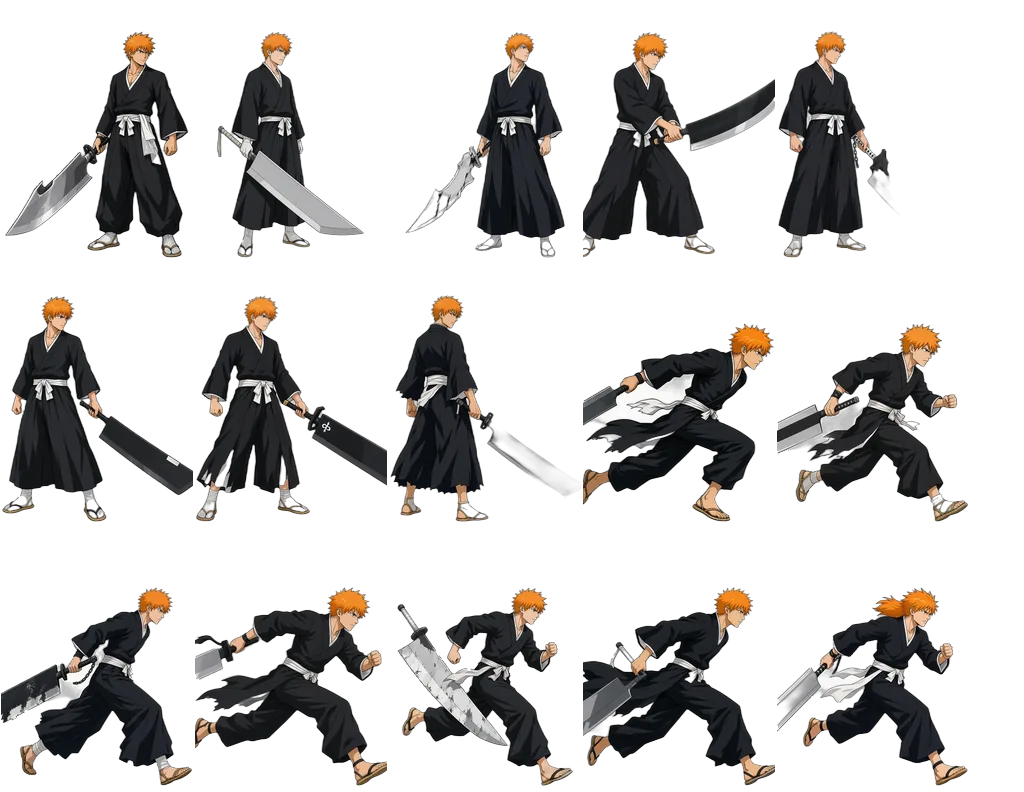
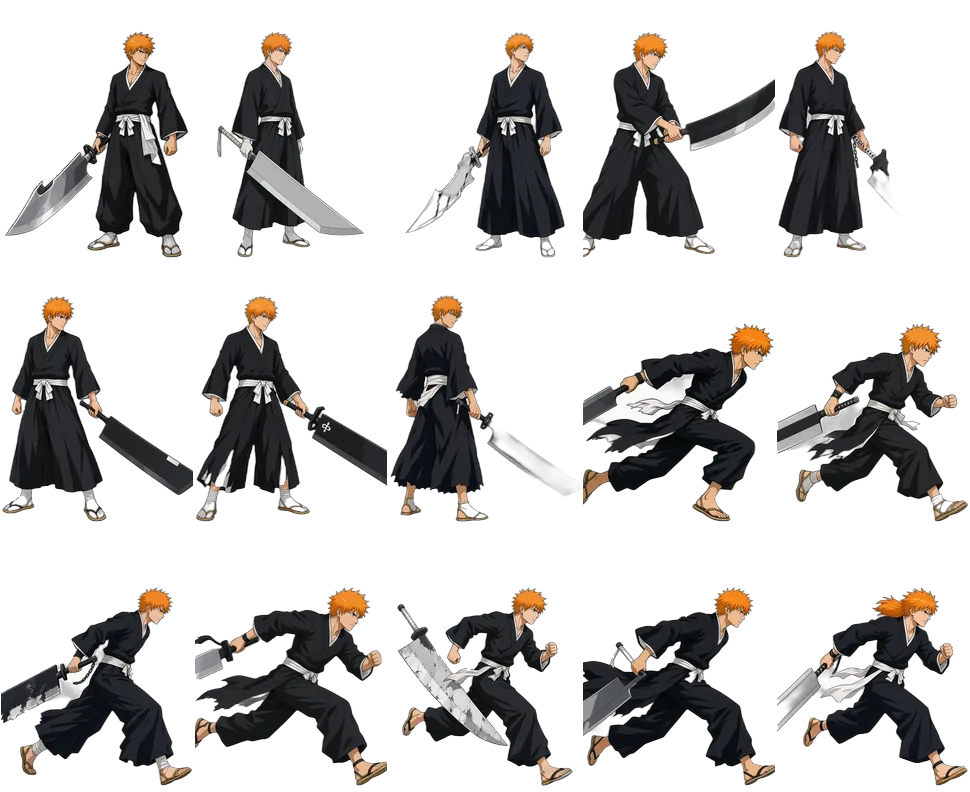
pages30z: 一护 hitstun 换真帧
覆盖 idle 顶位：hitstun×6 接入 atlas/manifest；ASSET_V pages30z。其余技能桩不动。

diff --git a/game.js b/game.js
@@ -70,7 +70,7 @@
   var charHover = -1;
   // pages23: spritesheet loader. Each kit is 1–3 webp atlases (~5 total) plus ~15
   // core images. fetch+blob decode; match load exclusive; 20s stall → retry UI.
-  var ASSET_V = "pages30y";
+  var ASSET_V = "pages30z";
   var ASSET_GROUPS = { core: [], obito: [], pain: [], tanjiro: [], gojo: [], luffy: [], ichigo: [] };
   var assetErrors = [];
   var LOAD_CONCURRENCY = 8;
@@ -696,11 +696,11 @@
   var luffyBodyW = 145 * luffyScale;
   var luffyBodyH = 436 * luffyScale;
 
-  // pages30y: 一护基础 — idle/run/knock；hitstun 暂用 idle 顶（土豪打回受击帧）
+  // pages30z: 一护基础 — idle/run/hitstun/knock（hitstun 换真帧）
   var ichigo = {
     idle: loadNumbered("ichigo/idle", 8),
     run: loadNumbered("ichigo/run", 8),
-    hitstun: loadNumbered("ichigo/idle", 6),
+    hitstun: loadNumbered("ichigo/hitstun", 6),
     knock: loadNumbered("ichigo/knockdown", 6)
   };
   // canvas 320×436；opaque ~307×378；脚底距底 ~8px；面朝右 → nativeDir +1
@@ -5291,7 +5291,6 @@
       else if (kdt < 0.18) idx = 4;
       else idx = 5;
     } else if (f.hitLight && (f.stun || 0) > 0 && ichigo.hitstun && ichigo.hitstun[0] && ichigo.hitstun[0].complete) {
-      // pages30y: hitstun 暂顶 idle（同 idle 路径）
       set = ichigo.hitstun;
       var su = 1 - Math.min(1, (f.stun || 0) / 0.55);
       idx = Math.min(5, Math.floor(su * 6));

diff --git a/index.html b/index.html
@@ -51,7 +51,7 @@
 (function(){var t0=Date.now(),el=document.getElementById("bootT");var iv=setInterval(function(){if(!document.getElementById("boot")){clearInterval(iv);return;}el.textContent=Math.round((Date.now()-t0)/1000)+"s";},500);
 window.addEventListener("error",function(e){var m=document.getElementById("bootMsg");if(m&&e&&e.target&&e.target.src)m.textContent="脚本加载失败，正在重试…";},true);})();
 </script>
-<script src="game.js?v=pages30y" onerror="(function(s){var n=document.createElement('script');n.src='game.js?v=pages30y&r='+Date.now();document.body.appendChild(n);})(this)"></script>
+<script src="game.js?v=pages30z" onerror="(function(s){var n=document.createElement('script');n.src='game.js?v=pages30z&r='+Date.now();document.body.appendChild(n);})(this)"></script>
 
 <script>
 (function(){var last=0;

diff --git a/ichigo/README.md b/ichigo/README.md
@@ -5,10 +5,7 @@
 - 脚底基线：约距底 8px
 - 面朝右 → nativeDir +1
 
-## Batch 1（pages30y）
-- idle×8 · run×8 · knockdown×6
-- **hitstun 暂用 idle 顶位**（土豪打回 hitstun，等重出再换）
+## Batch 1（pages30z）
+- idle×8 · run×8 · hitstun×6 · knockdown×6
+- hitstun：痛感后仰/踉跄连贯（土豪 pages30y 打回后重出已过）
 - 技能帧未接；技能桩可玩
-
-## 勿装
-- 被打回的 `hitstun/01–06` 不要接进游戏
